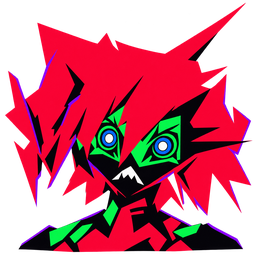
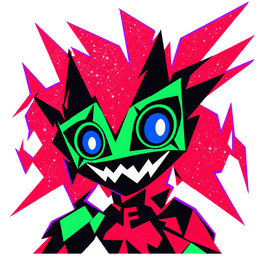
Regenerate Capri frames from a larger reference set

diff --git a/docs/plans/2026-10-30-capri-design-research.md b/docs/plans/2026-10-30-capri-design-research.md
@@ -64,6 +64,22 @@
 мини-маски (`work/art/v3/`); у нас — только склейка лица поверх общего кадра, чтобы грива не дрожала, и
 показ кадров (`CapriSprite`, `CapriMaskSprite`). Приёмы capri-desktop из списка выше пока не перенесены.
 
+## Рефы v4 — разбор (после «лучше, но не то»)
+
+Набор: 8 рефов Тимофея + кадры из capri-desktop (`assets/capri`: лица, cut-in, интро) + `reference/cutouts`
+capri-companion. Всё только как рефы для генерации, в репозиторий не попадает (`work/art/v4/refs`).
+Чего не хватало v3 (там лицо чёрное с зелёными пятнами, грива закрывает лицо, без блёсток):
+
+- лицо — почти целиком плоская неоново-зелёная маска, две половины, чёрный V-вырез со лба;
+- глаза огромные: чёрная миндалина, тонкое зелёное кольцо, крупная синяя радужка, белый овальный блик;
+- под маской — чёрная челюсть, рот — тонкая белая молния-зигзаг; открытый — большой белый рваный клык;
+- маленькая чёрная угловатая голова с шипами-короной; грива — огромное малиновое облако с плотными белыми
+  блёстками и фиолетовым сдвигом;
+- лучшая основа «голова и плечи» — интро capri-desktop (зелёная маска, клык, корона, малиновое тело с глифом).
+
+Инструмент генерации Codex берёт не больше 5 картинок, поэтому рефы склеены в две доски (крупные планы лица;
+силуэт и грива) + 3 отдельных кадра.
+
 ## Дальше (не сделано)
 
 - Механика notch из coucou: ширина выреза по `auxiliaryTop*Area`, пружины открытия/закрытия — сверить с нашими.

diff --git a/docs/VALIDATION.md b/docs/VALIDATION.md
@@ -1,6 +1,16 @@
 # Проверки Capri
 
-## Арт Capri v3 от Codex · 2026-10-30
+## Арт Capri v4 от Codex · 2026-10-30
+
+- v3 («лучше, но не то»): лицо чёрное с зелёными пятнами, грива закрывала лицо, нет блёсток. Собраны рефы:
+  8 от Тимофея + кадры capri-desktop (лица, cut-in, интро) + cutouts capri-companion, склеены в две доски
+  (инструмент Codex берёт ≤5 картинок); разбор — `docs/plans/2026-10-30-capri-design-research.md`.
+- Codex (локально, `work/art/v4/`): сначала idle (крупная зелёная маска с V-вырезом, глаза-мишени, рот-молния,
+  грива с блёстками), затем правки idle для остальных состояний и отдельные мини-маски. Склейка лица поверх
+  idle (`compose4.py`), 256×256; мини-маски выровнены по зелёной части под 24×13 pt; значок — idle на плашке.
+- Проверено: все кадры просмотрены до установки; 96 тестов; снимки notch на Маке (маска и помощник).
+
+## Арт Capri v3 от Codex · 2026-10-30 (заменён v4)
 
 - Два векторных варианта (по `face.ts` и свой по рефам) Тимофей отклонил: «выглядит никак референс». По его
   просьбе локальный Codex (`codex exec`, timoserver) получил только 8 рефов персонажа и короткую задачу
